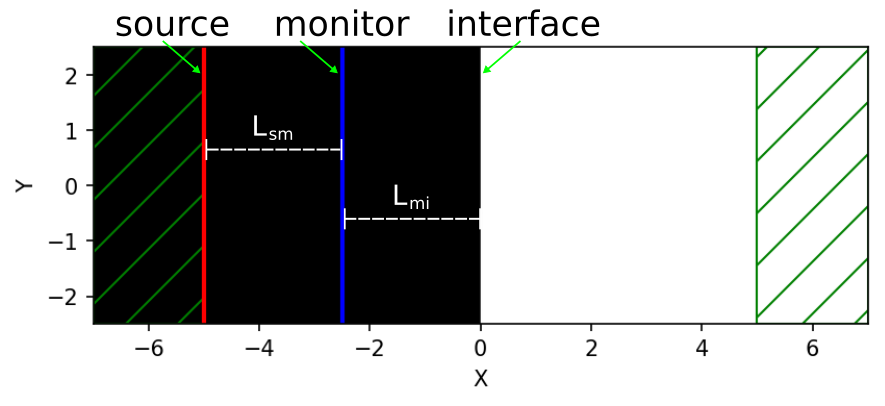
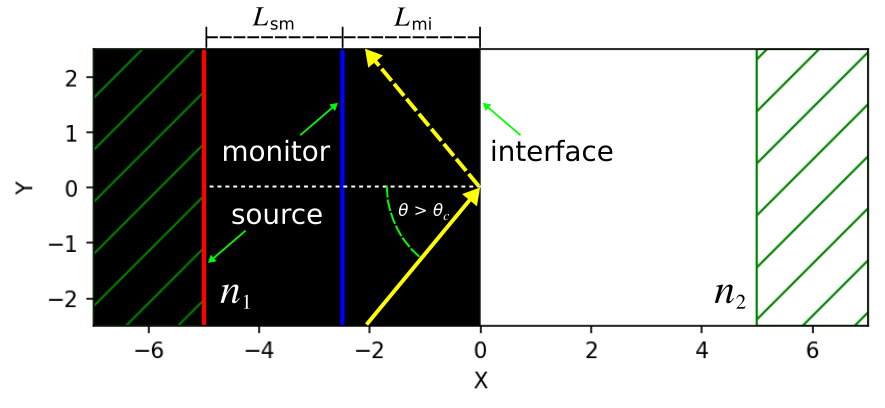
updates to figure and text

diff --git a/doc/docs/Python_Tutorials/Mode_Decomposition.md b/doc/docs/Python_Tutorials/Mode_Decomposition.md
@@ -146,9 +146,9 @@ In the reflected-flux calculation, we apply our usual trick of first performing 
 Phase of a Total Internal Reflected Mode
 ----------------------------------------
 
-For certain applications, such as [physically based ray tracing](https://pbr-book.org/), the phase of the reflection/transmission coefficient of an interface (flat or textured) is an important parameter used for modeling coherent effects (i.e., constructive or destructive interference in the far field involving a collection of intersecting rays). This tutorial demonstrates how to use mode decomposition to compute the phase of the reflection coefficient of a [total internal reflected](https://en.wikipedia.org/wiki/Total_internal_reflection) (TIR) mode. The results are verified using the [Fresnel equations](https://en.wikipedia.org/wiki/Total_internal_reflection#Phase_shifts).
+For certain applications, such as [physically based ray tracing](https://pbr-book.org/), the phase of the reflection/transmission coefficient of a surface interface (flat or textured) is an important parameter used for modeling coherent effects (i.e., constructive or destructive interference from a collection of intersecting rays scattered off the surface). This tutorial demonstrates how to use mode decomposition to compute the phase of the reflection coefficient of a [total internal reflected](https://en.wikipedia.org/wiki/Total_internal_reflection) (TIR) mode. The simulated results are verified using the [Fresnel equations](https://en.wikipedia.org/wiki/Total_internal_reflection#Phase_shifts).
 
-The example involves a 2d simulation of a flat interface of two lossless media with $n_1=1.5$ and $n_2=1.0$. The [critical angle](https://en.wikipedia.org/wiki/Total_internal_reflection#Critical_angle) for this interface is 41.8°. The source is an incident planewave with linear polarization ($S$ or $P$). The 2d cell is periodic in $y$ with PML in the $x$ direction. The choice of the cell size is arbitrary. A schematic of the simulation layout is shown in the figure below.
+The example involves a 2d simulation of a flat interface of two lossless media with $n_1=1.5$ and $n_2=1.0$. The [critical angle](https://en.wikipedia.org/wiki/Total_internal_reflection#Critical_angle) for this interface is $\theta_c = 41.8^\circ$. The source is an incident planewave with linear polarization ($S$ or $P$). The 2d cell is periodic in $y$ with PML in the $x$ direction. The cell size does not affect the results and is therefore arbitrary. A schematic of the simulation layout is shown below.
 
 The key item to consider for these types of calculations is the location of the mode monitor relative to the source and the interface. The mode monitor is a line extending the entire length of the cell in the $y$ direction. In order to compare the result with the Fresnel equations, the phase of the reflection coefficient must be computed *exactly* at the interface. However, it is problematic to measure the reflection coefficient exactly at the interface because the amplitude of the left-going wave drops discontinuously to zero across the interface. For this reason, the mode monitor must be positioned *away* from the interface (somewhere within the $n_1$ medium) and the measured phase must be corrected in post processing to account for this offset.
 
@@ -156,20 +156,20 @@ The key item to consider for these types of calculations is the location of the 
 
 The calculation of the reflection coefficient requires two separate runs: (1) a normalization run involving just the source medium ($n_1$) to obtain the incident fields, and (2) the main run including the interface whereby the incident fields from (1) are first subtracted from the monitor to obtain only the reflected fields. The mode coefficient in (2) divided by (1) is, by definition, the reflection coefficient.
 
-The phase of the reflection coefficient needs to be corrected for the offset of the mode monitor relative to the source and interface &mdash; the parameters $L_{sm}$ and $L_{mi}$, respectively, labeled in the schematic above &mdash; using the formula: $\exp(i * k_x * 2\pi * (L_{sm} + L_{mi}))$, where $k_x$ is the $x$ component of the planewave's wavevector (`k` in the script). The $2\pi$ factor is necessary because `k` does *not* include this factor (per convention in Meep).
+The phase of the reflection coefficient needs to be corrected for the offset of the mode monitor relative to the source and interface &mdash; labeled in the schematic above as $L_{sm}$ and $L_{mi}$, respectively &mdash; using the formula $\exp(i 2\pi k_x (L_{sm} + L_{mi}))$, where $k_x$ is the $x$ component of the planewave's wavevector (`k` in the script). The $2\pi$ factor is necessary because `k` does *not* include this factor (per convention in Meep).
 
-With this setup, we measure the phase of the reflectance coefficient for two different source configurations (polarization and angle) and compare the result with the Fresnel equations. There is good agreement in the simulated and analytic results. (As additional validation, we note that the magnitude of the reflectance coefficient of a TIR mode must be one.)
+With this setup, we measure the phase of the reflection coefficient for two different source configurations (polarization and angle) and compare the result with the Fresnel equations. The location of the mode monitor is also varied in the two test configurations as part of the validation. Results are shown in two separate tables below. There is good agreement between the simulation and theory. (As additional validation, we note that the magnitude of the reflection coefficient of a TIR mode must be one which is indeed the case.)
 
-| $S$ pol., $\theta$ = 54.3° | reflectance coefficient | phase (radians) |
-|:--------------------------:|:-----------------------:|:---------------:|
-|            Meep            |     0.23415-0.96597j    |     -1.33299    |
-|           Fresnel          |     0.22587-0.97416j    |     -1.34296    |
+| $S$ pol., $\theta$ = 54.3° | reflection coefficient | phase (radians) |
+|:--------------------------:|:----------------------:|:---------------:|
+|            Meep            |    0.23415-0.96597j    |     -1.33299    |
+|           Fresnel          |    0.22587-0.97416j    |     -1.34296    |
 
 
-| $P$ pol., $\theta$ = 48.5° | reflectance coefficient | phase (radians) |
-|:--------------------------:|:-----------------------:|:---------------:|
-|            Meep            |     0.11923+0.98495j    |      1.45033    |
-|           Fresnel          |     0.14645+0.98922j    |      1.42382    |
+| $P$ pol., $\theta$ = 48.5° | reflection coefficient | phase (radians) |
+|:--------------------------:|:----------------------:|:---------------:|
+|            Meep            |    0.11923+0.98495j    |      1.45033    |
+|           Fresnel          |    0.14645+0.98922j    |      1.42382    |
 
 The simulation script is in [examples/mode_coeff_phase.py](https://github.com/NanoComp/meep/blob/master/python/examples/mode_coeff_phase.py).
 
